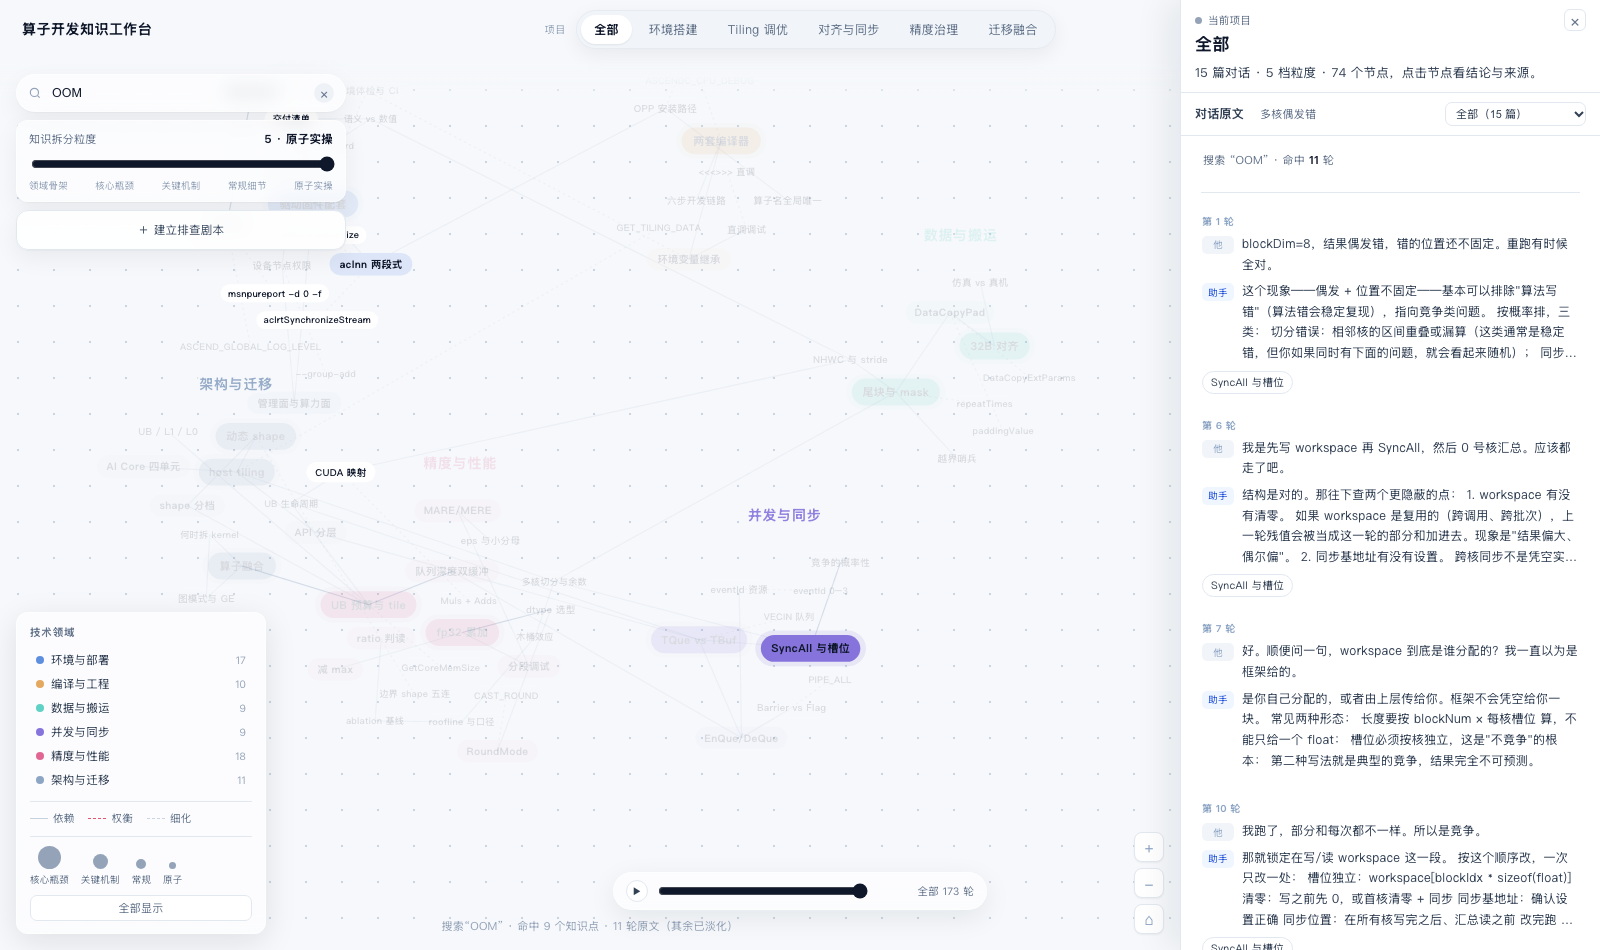
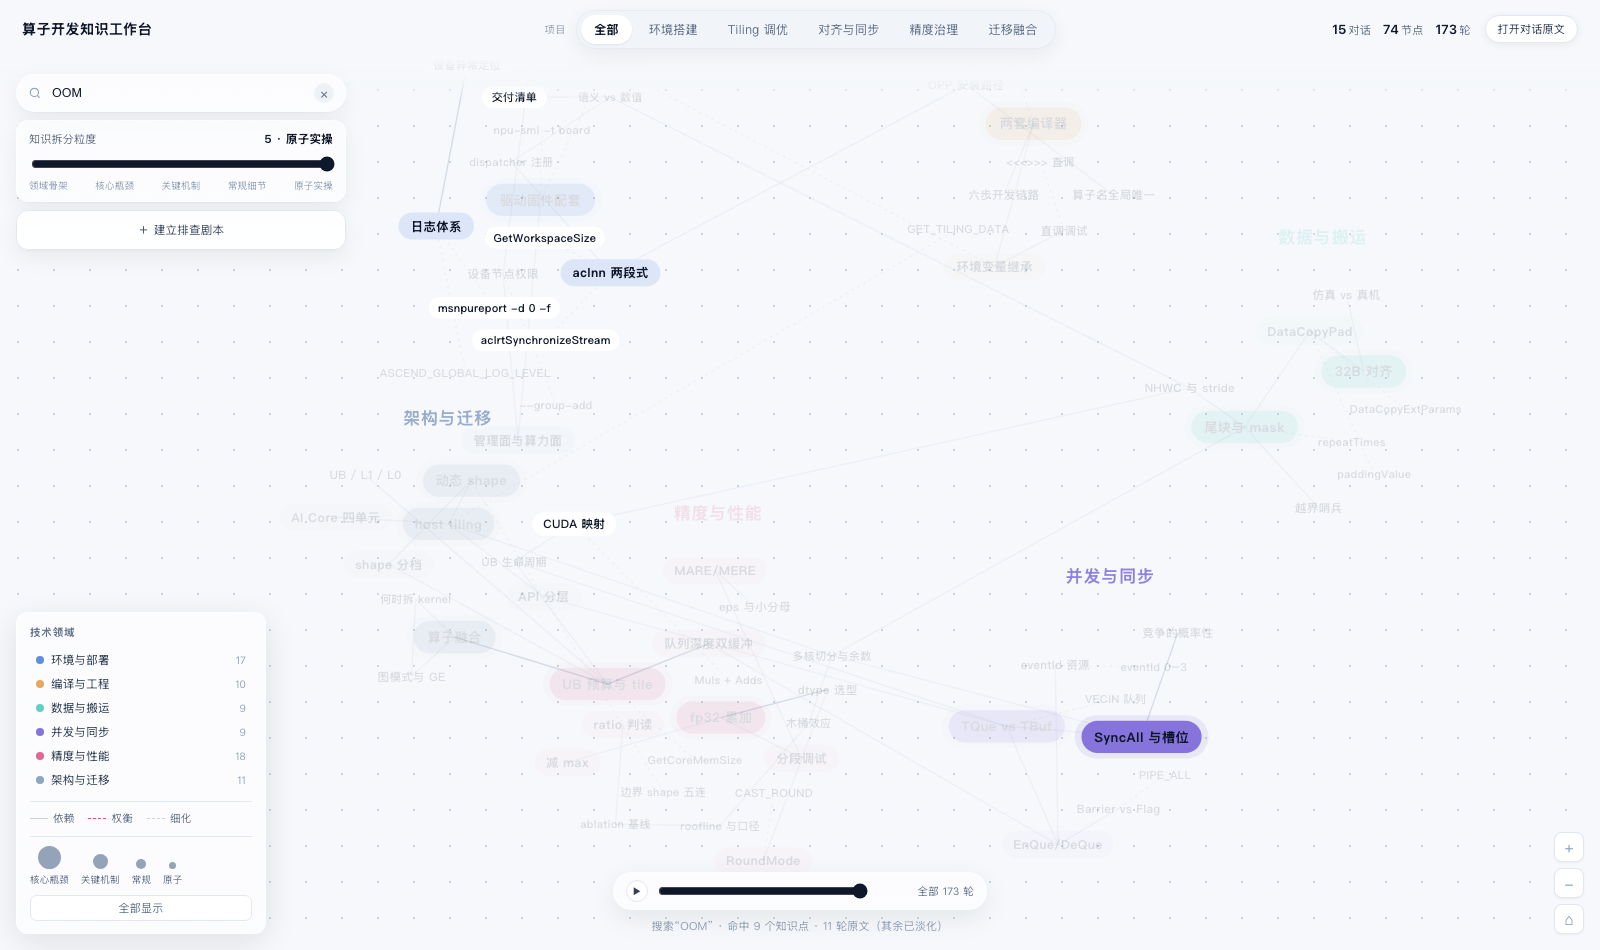
fix: 搜索深链不打开抽屉，更新封面图

diff --git a/cann-dashboard/算子知识工作台.html b/cann-dashboard/算子知识工作台.html
@@ -1416,7 +1416,7 @@ function applyDeepLink(){
     fitView(true, hits.length?hits:null);
     const rs=ROUNDS.filter(r=>sceneSet.has(r.c)&&roundHit(r,state.q.toLowerCase()));
     $('#hint').textContent=`搜索“${state.q}” · 命中 ${hits.length} 个知识点 · ${rs.length} 轮原文（其余已淡化）`;
-    if(rs.length){ openDrawer(); setTimeout(()=>scrollToRound(rs[0].c,rs[0].r,false),120); }
+    if(P.get('drawer')==='1' && rs.length){ openDrawer(); setTimeout(()=>scrollToRound(rs[0].c,rs[0].r,false),120); }
   }
   if(P.has('tl')) setTl(+P.get('tl'));
   if(P.has('path')){
